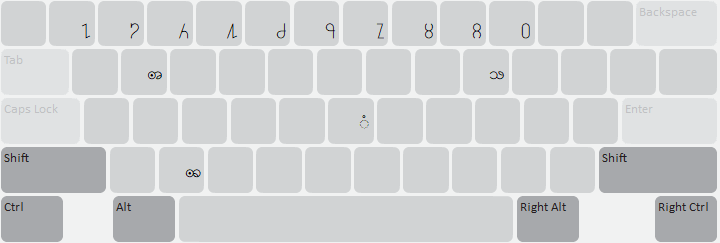
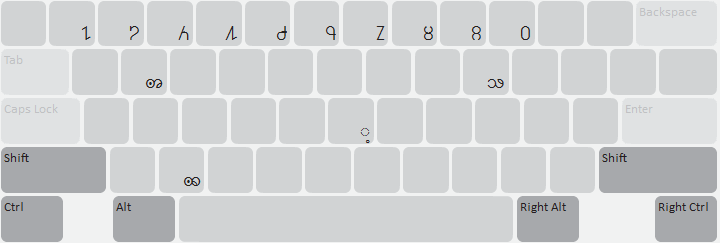
[sil_shan] Updates to try to fix conflicts with new version

diff --git a/release/sil/sil_shan/source/readme.htm b/release/sil/sil_shan/source/readme.htm
@@ -6,6 +6,6 @@
   </head>
   <body>
     <h1>Shan (SIL) Keyboard</h1>
-    <p>Shan 'standard' keyboard layout as per Shan Institute for Information Technology layout.</p>
+    <p>Shan 'standard' keyboard layout as per Shan Institute for Information Technology layout. This keyboard conforms to the 2025-May-19 Shan Standard keyboard update as announced here: https://shaniit.org/events/shan_standard_keyboard_update_announcement</p>
   </body>
 </html>

diff --git a/release/sil/sil_shan/HISTORY.md b/release/sil/sil_shan/HISTORY.md
@@ -1,6 +1,10 @@
 Shan (SIL) Keyboard Change History
 =======================
 
+1.4.3 (28 Oct 2025)
+------------------
+* Change Shift H key from U+1037 to U+1036
+
 1.4.2 (2025-10-14)
 ------------------
 * Update Padauk Book font to v6.000
@@ -26,3 +30,4 @@ Shan (SIL) Keyboard Change History
 1.3 (22 Jun 2018)
 -----------------
 * Source migrated to GitHub
+
